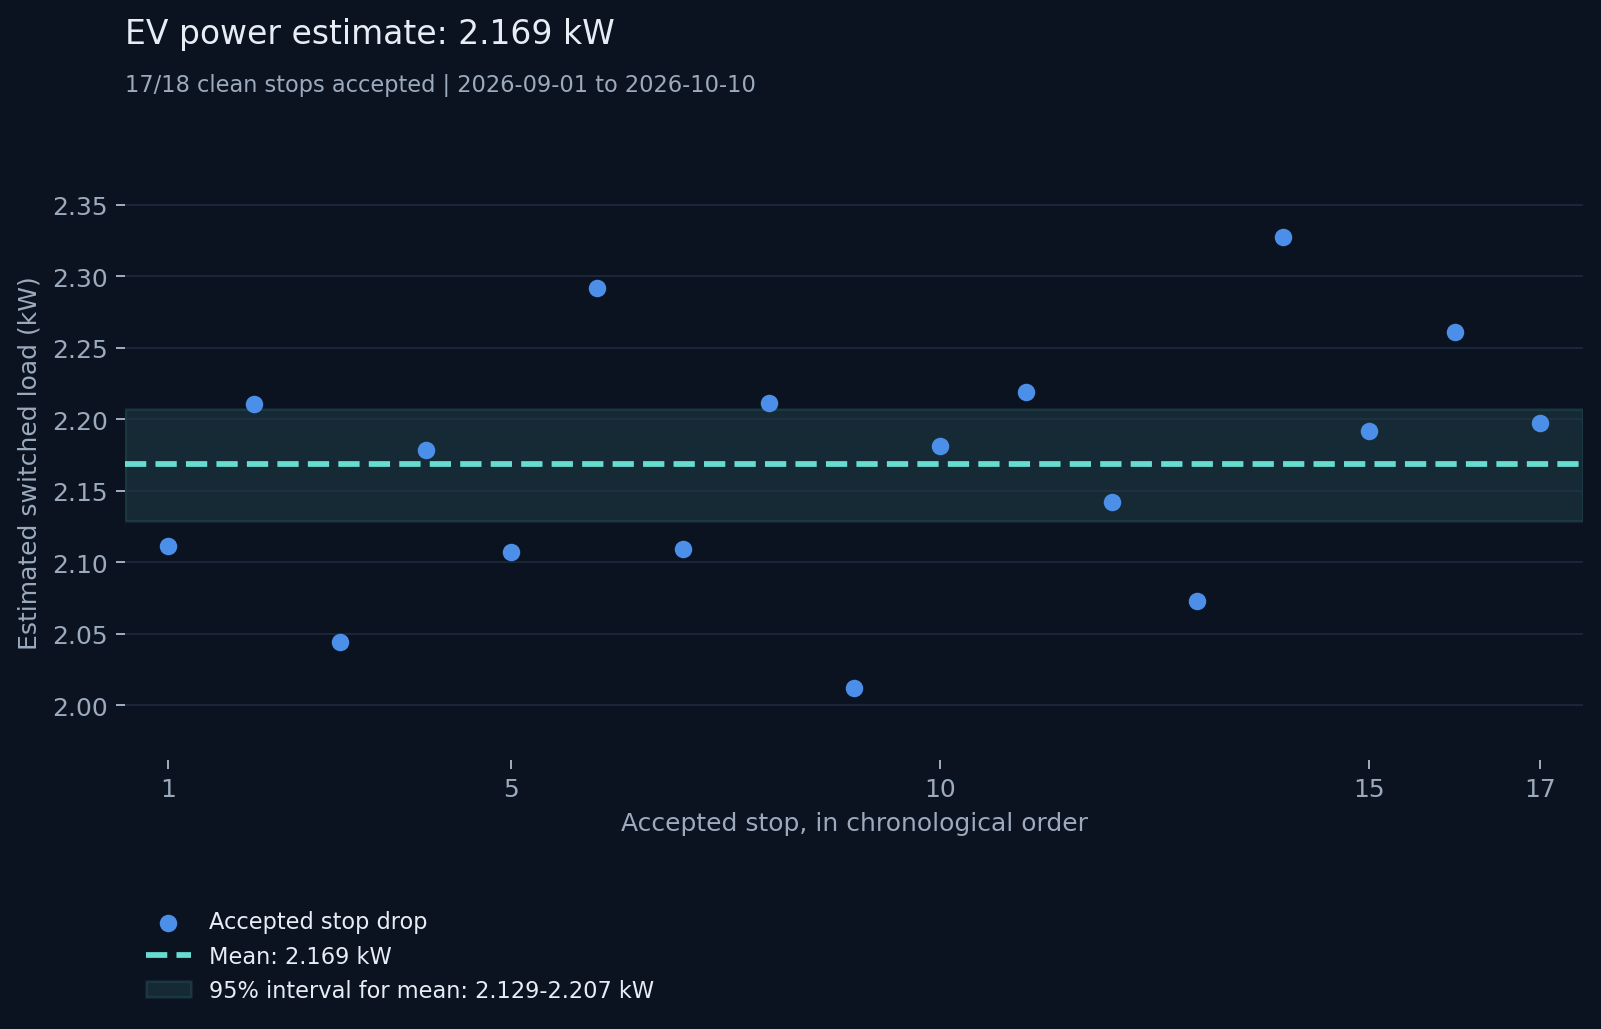
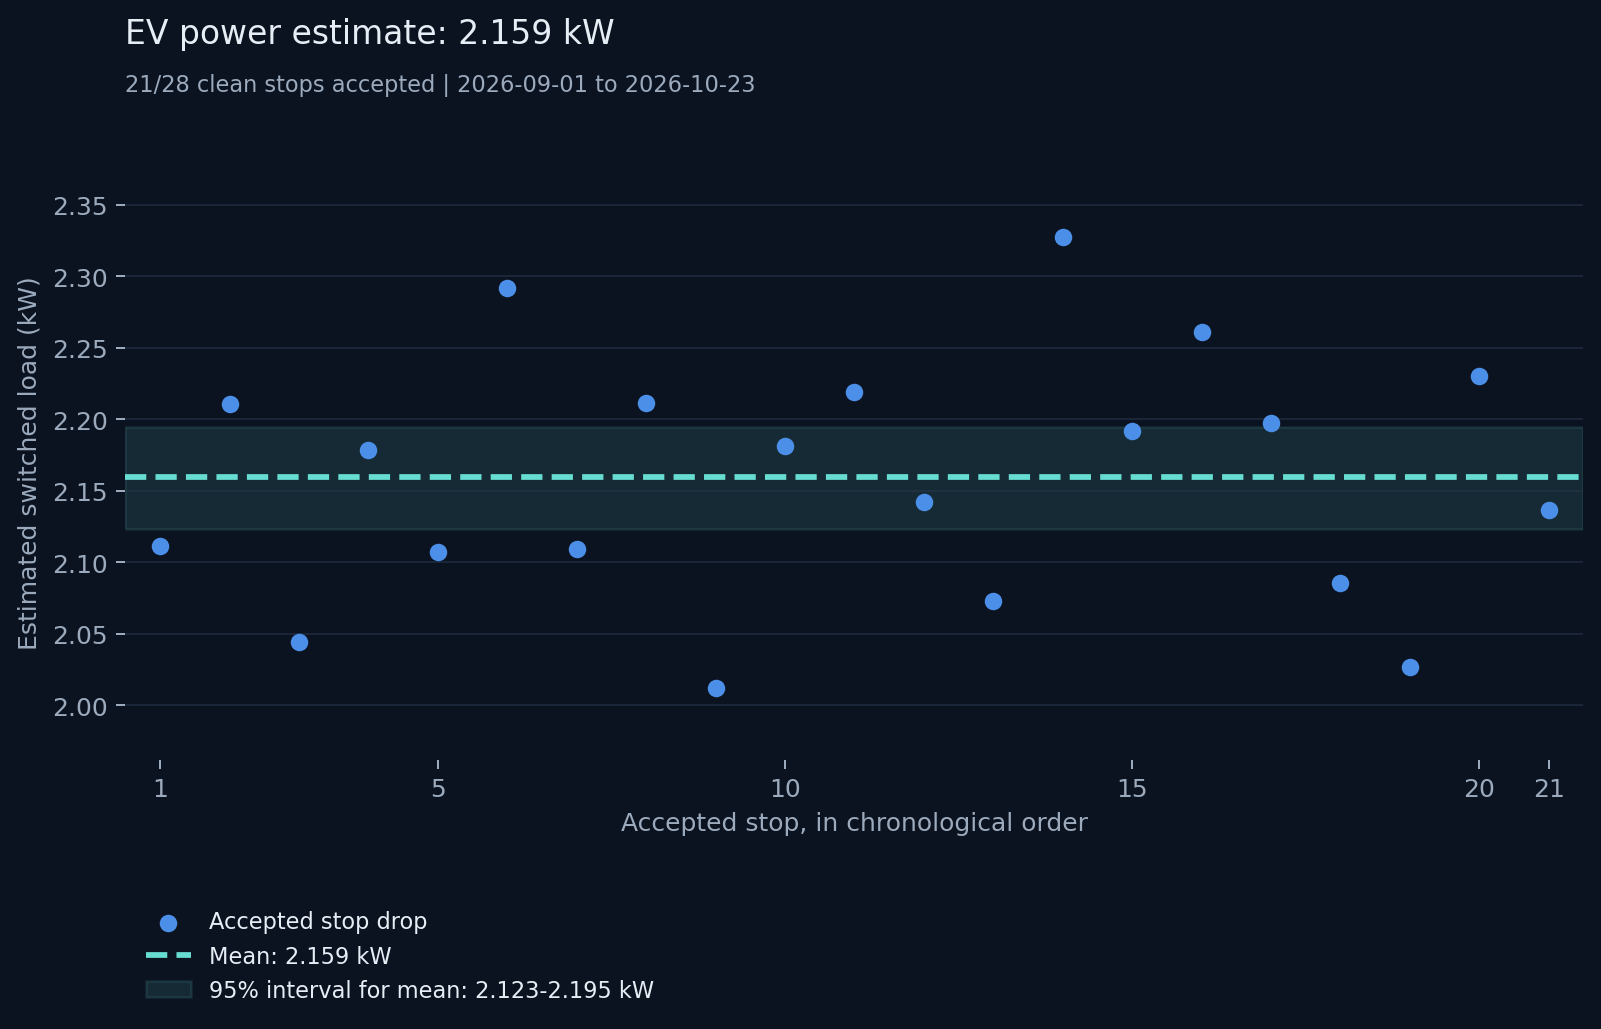
updated ev charging estimates

diff --git a/tests/test_daily_usage.py b/tests/test_daily_usage.py
@@ -13,13 +13,13 @@ from usage_helpers import DAY, NOW, ZONE, complete_source_days as days
 class DailyDetectionTests(unittest.TestCase):
     def test_two_hours_and_strict_power_threshold_with_no_baseload_subtraction(self):
         data = days(loads=[("2026-09-02 08:00", "2026-09-02 09:55", 2.4),
-                           ("2026-09-02 10:00", "2026-09-02 12:00", 2.169),
+                           ("2026-09-02 10:00", "2026-09-02 12:00", 2.159),
                            ("2026-09-02 14:00", "2026-09-02 16:00", 2.4)])
         report = analyse_daily_usage(data, DAY, now=NOW)
         self.assertEqual(len(report.consumption), 288)
         self.assertEqual(len(report.ev_blocks), 1)
-        self.assertEqual(report.ev_blocks[0].power_kw, Decimal("2.169"))
-        self.assertEqual(report.ev_total_kwh, Decimal("4.338"))
+        self.assertEqual(report.ev_blocks[0].power_kw, Decimal("2.159"))
+        self.assertEqual(report.ev_total_kwh, Decimal("4.318"))
         self.assertEqual(report.total_kwh, Decimal("42.750"))
         self.assertTrue(all(s.ev_power_kw <= s.power_kw for s in report.consumption))
 
@@ -27,10 +27,10 @@ class DailyDetectionTests(unittest.TestCase):
         data = days(count=4, loads=[("2026-09-01 22:30", "2026-09-02 00:30", 2.4),
                                     ("2026-09-02 23:30", "2026-09-03 01:30", 2.4)])
         report = analyse_daily_usage(data, DAY, now=NOW)
-        self.assertEqual([b.energy_kwh for b in report.ev_blocks], [Decimal("1.0845")] * 2)
+        self.assertEqual([b.energy_kwh for b in report.ev_blocks], [Decimal("1.0795")] * 2)
         self.assertEqual(report.ev_total_kwh, EV_POWER_KW)
         following = analyse_daily_usage(data[1:], DAY + timedelta(days=1), now=NOW + timedelta(days=1))
-        self.assertEqual(following.ev_total_kwh + report.ev_blocks[1].energy_kwh, Decimal("4.338"))
+        self.assertEqual(following.ev_total_kwh + report.ev_blocks[1].energy_kwh, Decimal("4.318"))
 
     def test_interruptions_split_regions_but_missing_readings_fail(self):
         for mode in ("dip", "null", "absent"):
@@ -85,7 +85,7 @@ class DailyDetectionTests(unittest.TestCase):
                 sample.value, sample.original_value = Decimal("2.4"), "2.4"
         report = analyse_daily_usage(data, selected, now=datetime(2026, 10, 27, tzinfo=ZONE))
         self.assertEqual(len(report.consumption), 300)
-        self.assertEqual(report.ev_total_kwh, Decimal("4.338"))
+        self.assertEqual(report.ev_total_kwh, Decimal("4.318"))
         self.assertEqual(report.ev_blocks[0].start_at.astimezone(ZONE).hour, 1)
         self.assertEqual(report.ev_blocks[0].end_at.astimezone(ZONE).hour, 2)
 
@@ -110,7 +110,7 @@ class DailyDetectionTests(unittest.TestCase):
         tomorrow_noon = next(s for s in data[2].samples if s.measurement == "usePower" and s.sample_index == 144)
         tomorrow_noon.unit = "kWh"
         report = analyse_daily_usage(data, DAY, now=NOW)
-        self.assertEqual(report.ev_total_kwh, Decimal("4.338"))
+        self.assertEqual(report.ev_total_kwh, Decimal("4.318"))
 
     def test_ambiguous_unused_dst_hour_does_not_reject_the_following_day(self):
         selected = DAY.replace(month=10, day=26)

diff --git a/tests/test_ev_usage_report.py b/tests/test_ev_usage_report.py
@@ -39,10 +39,10 @@ class EVUsageReportTests(unittest.TestCase):
         self.assertEqual(body["image_mime_type"], "image/png")
         self.assertEqual(body["total_kwh"], "42.750")
         self.assertEqual(body["total_kwh_source"], "fusionsolar.totalUsePower")
-        self.assertEqual(body["ev_total_kwh"], "1.0845")
+        self.assertEqual(body["ev_total_kwh"], "1.0795")
         self.assertEqual(body["ev_blocks"][0]["end_at"], "2026-09-03T00:00:00+02:00")
         self.assertEqual(body["ev_model"]["minimum_minutes"], 120)
-        self.assertEqual(body["ev_model"]["power_kw"], "2.169")
+        self.assertEqual(body["ev_model"]["power_kw"], "2.159")
         self.assertEqual(body["ev_model"]["method"], "mean_clean_stop_drop")
         self.assertTrue(body["ev_model"]["version"])
         self.assertEqual(len(body["consumption"]), 288)
@@ -51,7 +51,7 @@ class EVUsageReportTests(unittest.TestCase):
             "power_kw": "0.2", "ev_power_kw": "0",
         })
         self.assertEqual(body["consumption"][-1]["power_kw"], "2.4")
-        self.assertEqual(body["consumption"][-1]["ev_power_kw"], "2.169")
+        self.assertEqual(body["consumption"][-1]["ev_power_kw"], "2.159")
         assert_png(self, base64.b64decode(body["image"], validate=True))
         self.assertEqual(self.provider.requests, [])
 

diff --git a/tests/test_usage_report.py b/tests/test_usage_report.py
@@ -31,7 +31,7 @@ class UsageReportTests(unittest.TestCase):
         second = self.service(DAY)
         self.assertEqual(first.usage, second.usage)
         self.assertEqual(first.usage.total_kwh, Decimal("42.750"))
-        self.assertEqual(first.usage.ev_total_kwh, Decimal("1.0845"))
+        self.assertEqual(first.usage.ev_total_kwh, Decimal("1.0795"))
         self.assertEqual(len(first.usage.ev_blocks), 1)
         self.assertEqual(self.provider.requests, [DAY - timedelta(days=1), DAY, DAY + timedelta(days=1)])
         self.assertEqual(sorted(self.repository.days), self.provider.requests)
@@ -117,7 +117,7 @@ class UsageReportTests(unittest.TestCase):
         with patch.object(self.repository, "save_day", side_effect=competing_insert):
             report = self.service(DAY)
         self.assertEqual(report.usage.total_kwh, Decimal("99"))
-        self.assertEqual(report.usage.ev_total_kwh, Decimal("4.338"))
+        self.assertEqual(report.usage.ev_total_kwh, Decimal("4.318"))
         self.assertEqual(len(report.usage.ev_blocks), 1)
 
     def test_missing_committed_day_cannot_produce_a_completed_report(self):

diff --git a/tests/test_ev.py b/tests/test_ev.py
@@ -14,7 +14,7 @@ STEP = timedelta(minutes=5)
 class RegionTests(unittest.TestCase):
     def test_exact_duration_and_strict_threshold(self):
         for count, power, expected in ((24, Decimal("2.4"), [(START, START + timedelta(hours=2))]),
-                                       (23, Decimal("2.4"), []), (24, Decimal("2.169"), [])):
+                                       (23, Decimal("2.4"), []), (24, Decimal("2.159"), [])):
             with self.subTest(count=count, power=power):
                 self.assertEqual(find_regions([(START + n * STEP, power) for n in range(count)]), expected)
 

diff --git a/src/home_energy/usage/ev.py b/src/home_energy/usage/ev.py
@@ -8,11 +8,11 @@ from .models import EVBlock
 
 
 # Equal-weight mean of accepted clean-stop drops, rounded to 0.001 kW.
-# Frozen calibration; see docs/ev-estimation.md.
-EV_POWER_KW = Decimal("2.169")
+# 21 accepted stops through the 2026-10-23 investigation; see docs/ev-estimation.md.
+EV_POWER_KW = Decimal("2.159")
 MINIMUM_EV_DURATION = timedelta(hours=2)
 SAMPLE_INTERVAL = timedelta(minutes=5)
-MODEL_VERSION = "clean-stops-2026-10-10-mean-v2"
+MODEL_VERSION = "clean-stops-2026-10-23-mean-v3"
 
 
 def find_regions(readings: Iterable[tuple[datetime, Decimal | float | None]], *,

diff --git a/docs/ev-estimation.md b/docs/ev-estimation.md
@@ -1,12 +1,14 @@
 # EV charging power estimate
 
-We estimate EV charging power at **2.169 kW**, using 17 accepted charging stops.
+We estimate EV charging power at **2.159 kW**, using **21 accepted charging stops**. The 25 October 2026 recalibration extends the investigation through 23 October. This replaces 2.169 kW from 17 stops: a reduction of **10 W (0.46%)**. The evidence supports approximately **2.16 kW**; three decimal places keep calculations reproducible rather than implying accuracy to one watt.
 
 ## Data
 
-We used FusionSolar's total consumption (`usePower`) from **1 September–10 October 2026**: 40 days of five-minute readings, with all readings available for each day and its surrounding hours. Dates use Europe/Brussels; durations are calculated in UTC. We treat power readings as kW, although the source does not confirm their unit.
+We used FusionSolar's total consumption (`usePower`) from **1 September–23 October 2026**: 53 days of five-minute readings, with no missing target or required context readings. Complete adjacent days, **31 August and 24 October**, supply context, including the end of a session starting on 23 October. Dates use Europe/Brussels; durations are calculated in UTC. We treat power readings as kW, although the source does not confirm their unit.
 
-To find stops for calibration, we first select regions with consumption **>2.13 kW for ≥120 minutes**. Interruptions and missing readings split regions. We include two hours before and after each day to catch charging across midnight.
+The local PostgreSQL database was unavailable during recalibration. We reused the previous investigation's validated source export through 10 October and fetched complete snapshots for 11–24 October directly from FusionSolar on 25 October. We validated every source day and daily total before analysis. The earlier 18 candidate drops and acceptance decisions reproduce exactly. No database snapshots were changed.
+
+To find stops for calibration, we select regions with consumption **>2.13 kW for ≥120 minutes**. This fixed candidate threshold is independent of the fitted power. Interruptions and missing readings split regions. Two hours before and after the requested range are required; full adjacent days let us analyse complete sessions crossing midnight.
 
 ## How we estimate the power
 
@@ -21,39 +23,63 @@ Take **t=0** as the first interval below the threshold:
 ```text
 before = mean(P at −15 and −10 minutes)
 after  = mean(P at  +5 and +10 minutes)
-drop   = before − after
+drop   = before - after
 EV power = mean(accepted drops), rounded to 0.001 kW
 ```
 
 We skip the readings at −5 and 0 minutes because they may contain part of the charging stop. Assuming household consumption stays the same across the two clean windows, the difference estimates the load that switched off.
 
-We keep stops with complete windows, where the region does not touch a gap or the edge of the available data. The drop must be positive, each window's highest and lowest readings must differ by **≤0.2 kW**, and the drop must not exceed the 10th percentile of total consumption in the region. Every accepted stop gets equal weight. **17/18 passed**; the 4 October 11:35 stop was excluded because consumption increased instead of dropping.
+We keep stops with complete windows, where the region does not touch a gap or the edge of the available data. The drop must be positive, each window's highest and lowest readings must differ by **≤0.2 kW**, and the drop must not exceed the 10th percentile of total consumption in the region. Every accepted stop gets equal weight. We retained the existing method and acceptance rules.
 
-![Seventeen accepted charging stops give a mean EV power estimate of 2.169 kW](images/ev-ending-calibration.png)
+**21/28 candidate stops passed**, including **4/10 additional candidates**:
 
-*Each dot is the power drop at an accepted stop. The dashed line is their mean: 2.169 kW. The shaded band shows the 95% bootstrap interval for that mean, rather than variation between individual stops.*
+| Additional accepted stop (Brussels) | Drop |
+| --- | --- |
+| 13 October 05:50 | 2.0855 kW |
+| 15 October 06:55 | 2.0265 kW |
+| 18 October 01:25 | 2.2305 kW |
+| 22 October 06:55 | 2.1365 kW |
 
-## Results
+The 12 October stop had an unstable after-window. Drops on 16, 17 and 20 October exceeded their regions' 10th percentiles; these large end drops cannot represent a constant load throughout the region. The 23 October stop failed both checks, and the 24 October stop had an unstable before-window and an excessive drop. The previously excluded 4 October stop still has a negative drop. Rejected calibration stops remain eligible for daily charging detection: rejection concerns power estimation, not whether the entire region contains EV charging.
+
+![Twenty-one accepted charging stops give a mean EV power estimate of 2.159 kW](images/ev-ending-calibration.png)
+
+*Each dot is the power drop at an accepted stop. The dashed line is their mean: 2.159 kW. The shaded band shows the 95% bootstrap interval for that mean, rather than variation between individual stops.*
+
+## Results and stability
 
 | Check | Result |
 | --- | --- |
-| Mean of 17 accepted stops | **2.169 kW** |
-| 95% bootstrap interval for the mean | **2.1291–2.2070 kW** |
+| Mean of 21 accepted stops | **2.159 kW** (unrounded: 2.1594762 kW) |
+| 95% bootstrap interval for the mean | **2.1233–2.1947 kW** |
+| Standard deviation between accepted stops | 0.0858 kW |
+| Four additional accepted stops alone | 2.1198 kW; 95% interval 2.0540–2.1943 kW |
+| Nighttime stops only (20 stops, midnight–08:00) | 2.1569 kW |
+| Leave one accepted stop out | Means 2.1511–2.1669 kW |
+| Window widths 10/15/20 minutes; one/two guarded samples | Means 2.1344–2.1608 kW; 17–21 accepted stops |
+| Window spread limits 0.1/0.2/0.3 kW | Means 2.1529–2.1595 kW; 20–22 accepted stops |
+| Candidate thresholds 2.0/2.1/2.13/2.159/2.2 kW | Means 2.1595–2.1600 kW; 21–22 accepted stops |
 
-The unrounded mean is 2.1688235 kW. We use **2.169 kW** for detection and energy. For the bootstrap interval, we resample whole accepted stops 5,000 times and recalculate the unrounded mean, using seed 20261011.
+For bootstrap intervals, we resample whole accepted stops 5,000 times and recalculate the unrounded mean, using seed 20261011. The mean's interval is about **8% narrower** than the previous 2.1291–2.2070 kW interval. The four new accepted stops average lower, but their interval includes the previous estimate; this small sample does not establish a change in charger power. Longer windows also move the estimate more than the 10 W recalibration, so window choice and household activity remain material sources of uncertainty.
 
 ## Using the estimate
 
 The daily API accepts dates at least two days ago in Europe/Brussels, so both adjacent context days have finished. It stores complete source days once and reuses them; incomplete consumption, daily totals, or required context return an error instead of a provisional estimate.
 
-Daily detection requires consumption **>2.169 kW for ≥120 continuous minutes** and draws an EV block at **2.169 kW**. We subtract no baseload. Each reading covers the following five-minute interval, so energy is `2.169 × charging hours`, counting only the part inside the local day. Across the dataset, this gives **18 regions, 129.583 hours and 281.066 kWh**. The daily API matches all 40 daily investigation estimates.
+Daily detection requires consumption **>2.159 kW for ≥120 continuous minutes** and draws an EV block at **2.159 kW**. We subtract no baseload. Each reading covers the following five-minute interval, so energy is `2.159 × charging hours`, counting only the part inside the local day. Across the 53 target days, this gives **28 regions, 236.750 hours and 511.143 kWh**. The previous 2.169 kW model gives 513.330 kWh over the same dates; recalibration reduces the estimate by **2.187 kWh (0.43%)**, including the small change in the detection threshold. All **53 daily analyses and 15,264 interval EV powers** match the investigation when run with the daily API's three-day context.
 
-The interval assumes independent stops that belong to the EV. Other appliances stopping, or household consumption changing at the same time, can affect the estimate. We have not confirmed whether the source readings are instantaneous or averaged. The two-hour rule also misses shorter charging sessions. Charger logs are needed to check which regions belong to the EV and how accurate the energy estimate is.
+The shared [EV detector](../src/home_energy/usage/ev.py) sets `EV_POWER_KW = Decimal("2.159")` and model version `clean-stops-2026-10-23-mean-v3`. Both detection and energy use this constant. Redeploy the application to apply it to n8n reports; the workflow gets the value from the API. Re-running a report recalculates EV estimates using unchanged source snapshots.
 
-## Run the analysis
+The interval assumes independent stops that belong to the EV. Other appliances stopping, or household consumption changing at the same time, can affect the estimate. We have not confirmed whether source readings are instantaneous or averaged. The two-hour rule misses shorter sessions, and clean-stop selection may exclude sessions with different power. Charger logs are needed to check attribution and actual charging energy.
+
+## Reproduce and inspect
+
+With PostgreSQL available and provider credentials configured, run:
 
 ```powershell
-uv run --locked home-energy investigate ev 2026-09-01 --end-date 2026-10-10 --fetch --output outputs/ev-investigation-2026-09-01_2026-10-10
+uv run --locked home-energy investigate ev 2026-09-01 --end-date 2026-10-23 --fetch --output outputs/ev-investigation-2026-09-01_2026-10-23
 ```
 
-The output directory contains the individual stops in `ending_estimates.csv` and the settings and results in `estimation.json`. The [report code](../src/home_energy/investigations/ev/report.py) draws the graphs from these measurements. The [EV detector](../src/home_energy/usage/ev.py) uses the estimate calculated by the [calibration code](../src/home_energy/investigations/ev/calibration.py).
+Omit `--fetch` when all source and adjacent days are stored. This recalibration's local [HTML report](../outputs/ev-investigation-2026-09-01_2026-10-23/index.html) includes daily graphs, tables and a PDF. Its `source/` directory preserves the complete source export and additional raw payloads; `daily_model_verification.csv` records the daily comparison. Local investigation outputs are gitignored.
+
+The versioned [calibration summary](data/ev-calibration-2026-10-23.json) preserves settings, sensitivity results, source-file SHA-256 hashes and verification counts. The [individual stop measurements](data/ev-ending-estimates-2026-10-23.csv) preserve exact window timestamps, acceptance and rejection reasons. The [report code](../src/home_energy/investigations/ev/report.py) draws the graphs from the measurements calculated by the [calibration code](../src/home_energy/investigations/ev/calibration.py).

diff --git a/README.md b/README.md
@@ -24,7 +24,7 @@ For local Python development, start `docker compose up -d --wait db`, then run `
 | `/api/v1/reports/ev/daily` | `{"date":"2026-10-10"}` or `{}` | Consumption readings, EV blocks, totals and a base64 PNG with EV blocks overlaid |
 | `/api/v1/reports/day-ahead` | `{"date":"2026-10-12","threshold_eur_per_mwh":"300","hysteresis_eur_per_mwh":"25"}` | Price analysis, `success`/`warning`, warning text and a base64 PNG |
 
-Usage accepts dates **at least two days ago**; `{}` selects two days ago in Brussels. EV detection requires **two continuous hours above 2.169 kW**, using two hours of boundary context on each side. The EV power is the equal-weight mean of accepted clean-stop drops, rounded to 0.001 kW; see [how we estimate it](docs/ev-estimation.md). No baseload is subtracted. The requested day and both adjacent days must have finished. Missing days are fetched once and stored only when every consumption interval and the daily total are available; stored days are immutable and reused. Successful reports always return `status: "complete"`. Yesterday and today are rejected with 422; incomplete consumption or required context returns 502.
+Usage accepts dates **at least two days ago**; `{}` selects two days ago in Brussels. EV detection requires **two continuous hours above 2.159 kW**, using two hours of boundary context on each side. The EV power is the equal-weight mean of accepted clean-stop drops, rounded to 0.001 kW; see [how we estimate it](docs/ev-estimation.md). No baseload is subtracted. The requested day and both adjacent days must have finished. Missing days are fetched once and stored only when every consumption interval and the daily total are available; stored days are immutable and reused. Successful reports always return `status: "complete"`. Yesterday and today are rejected with 422; incomplete consumption or required context returns 502.
 
 Usage returns Decimal powers/energies as strings and timestamps with Brussels offsets. The daily total comes from FusionSolar's `totalUsePower`; it is separate from integrating the sampled curve. See [EV estimation](docs/ev-estimation.md) for calibration evidence.
 
@@ -39,7 +39,7 @@ uv run home-energy fill usage 2026-10-10
 uv run home-energy fill prices 2026-10-08 --end-date 2026-10-10
 uv run home-energy chart prices 2026-10-10 --output outputs/prices.png
 uv run home-energy chart prices 2026-10-10 --output outputs/prices-strict.png --threshold 300 --hysteresis 0
-uv run --locked home-energy investigate ev 2026-09-01 --end-date 2026-10-10 --fetch --output outputs/ev-investigation-2026-09-01_2026-10-10
+uv run --locked home-energy investigate ev 2026-09-01 --end-date 2026-10-23 --fetch --output outputs/ev-investigation-2026-09-01_2026-10-23
 ```
 
 Usage fills accept past days and reject incomplete consumption or missing daily totals before storage. Repeated fills skip stored dates; price charts read stored data. The EV investigation exports real-data graphs, CSV tables, a PDF and an HTML index. Investigation dates must be at least two days ago; both adjacent context days are stored in the database. Omit `--fetch` to reuse stored data.
